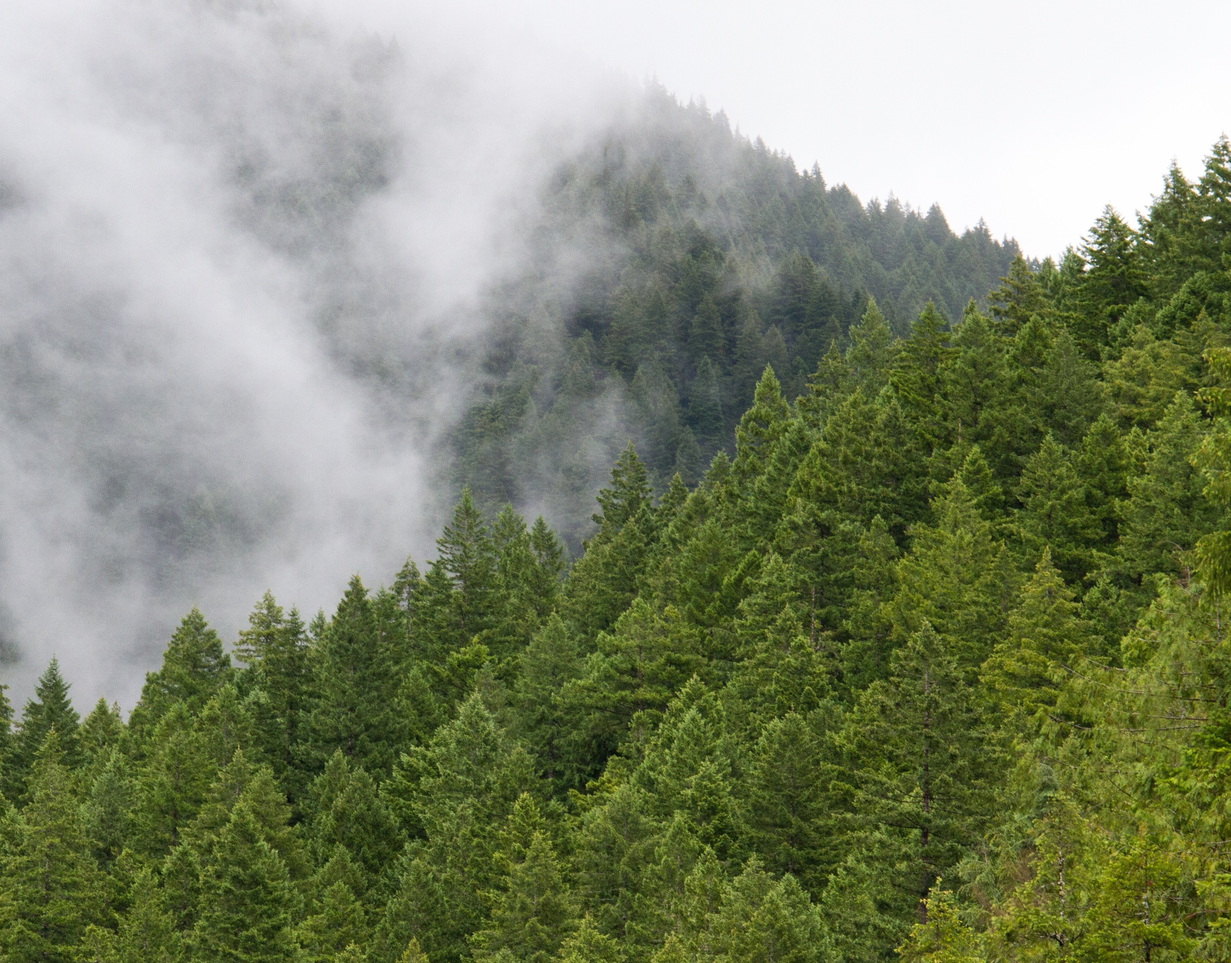
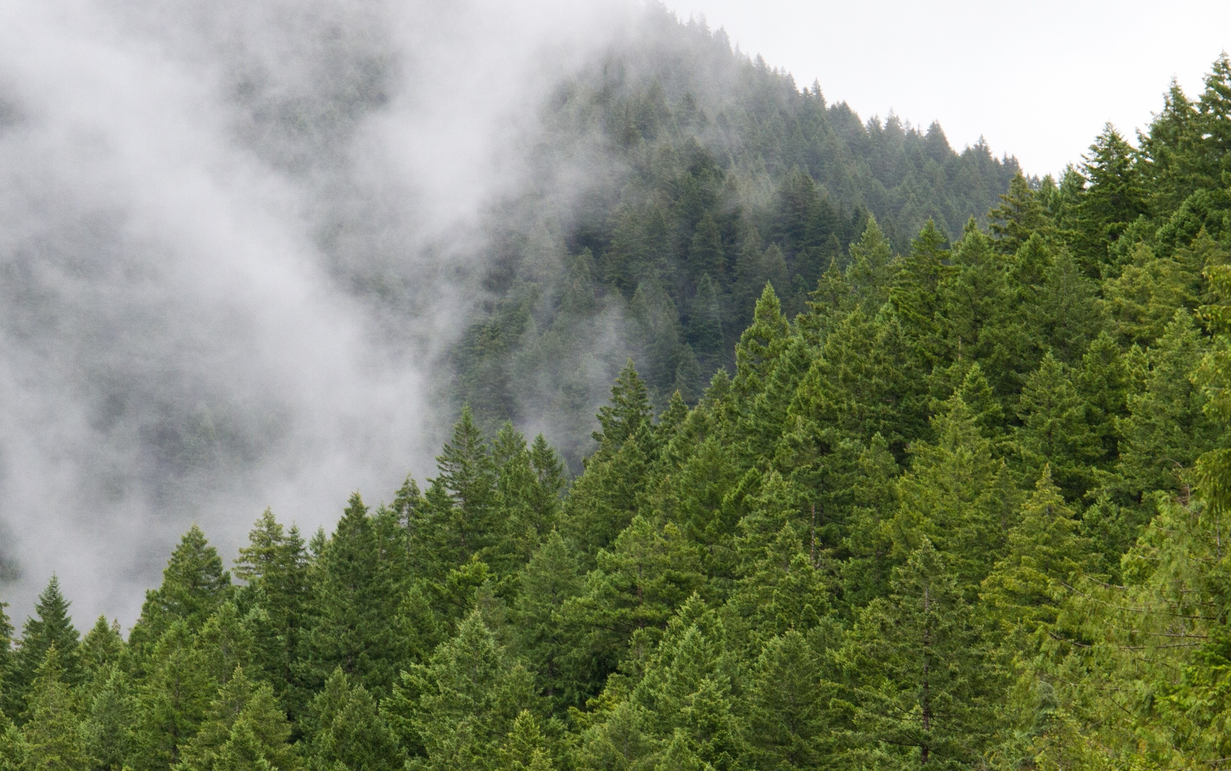
Added social buttons/resized photo

diff --git a/project.css b/project.css
@@ -41,3 +41,27 @@ ul li a:hover {
   background:#a2b3a1;
   color:#148A3B;
 }
+#social-buttons button {
+    color: white;
+}
+.btn btn-lg {
+    margin: 0 auto;
+}
+.btn-twitter {
+    background-color: #00acee;
+    border-color: #009ad5;
+}
+.btn-facebook {
+    background-color: #4868ac;
+    border-color: #314776;
+}
+.btn-pinterest {
+    background-color: #b62f26;
+    border-color: #b62f26;
+}
+.jumbotron {
+    min-height: 600px;
+    background-image: url('images/fruit-and-veg.jpg');
+    background-size: cover;
+    background-attachment: fixed;
+}

diff --git a/Project.html b/Project.html
@@ -48,4 +48,11 @@
 	    </li>
 	</ul>
    </header>
+   <div id='social-buttons'>
+    	<button class='btn btn-lg'>
+      		<button class='btn-twitter'>Twitter</button>
+      		<button class='btn-facebook'>Facebook</button>
+      		<button class='btn-pinterest'>Pinterest</button>
+      	</button>
+    </div>
 </body>
